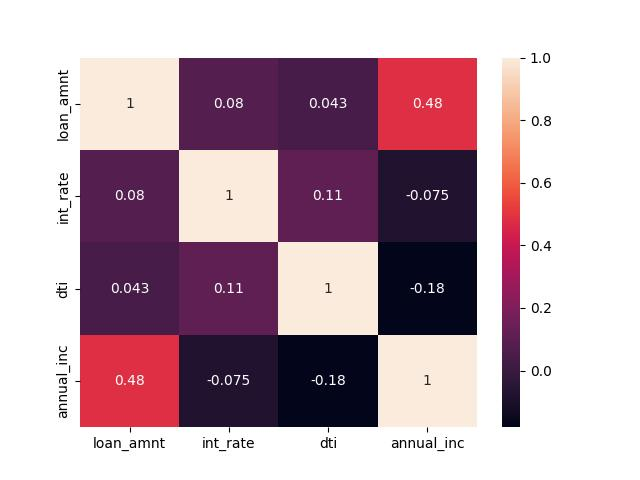
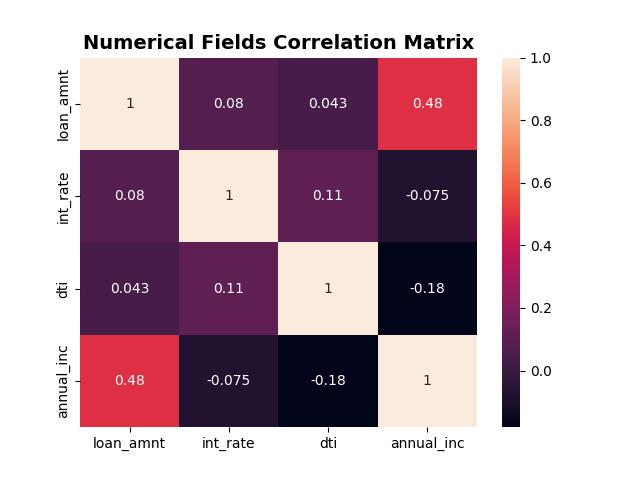
added logic for heatmap

Changed region(s): [[0.125, 0.0625, 0.75, 0.125]]

diff --git a/main.py b/main.py
@@ -126,8 +126,16 @@ def get_bar_plots(df:DataFrame, cat_cols:List, plot_path:str, name:str)->None:
     return
 
 def get_heatmap(df:DataFrame, plot_path:str, name:str)->None:
+    """Function to generate heatmap of correlation between numerical fields
+
+    Args:
+        df (DataFrame): dataset
+        plot_path (str): path for plot folder
+        name (str): plot name
+    """    
     corr = df.corr()
     sns.heatmap(corr, annot=True)
+    plt.title('Numerical Fields Correlation Matrix', **title_params)
     plt.savefig(join(plot_path, f'{name}.jpeg'))
     plt.close()
     return
